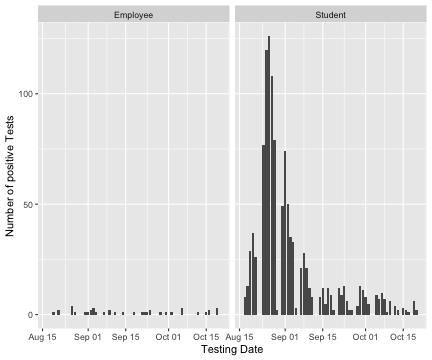
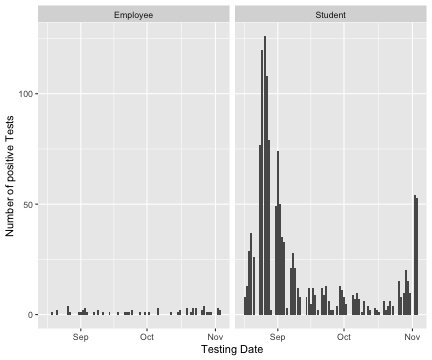
update to reshape example to Nov 5

diff --git a/03_tidyverse/05_tidyr-example.html b/03_tidyverse/05_tidyr-example.html
@@ -43,26 +43,26 @@ tables[[1]] %&gt;% head()
 
 ```
 ##   Testing Date    Employee Positive    Employee Negative     Student Positive
-## 1        10/20                    0                   14                    2
-## 2        10/19                    3                  102                    6
-## 3        10/18 No testing conducted No testing conducted No testing conducted
-## 4        10/17                    0                    5                    1
-## 5        10/16                    2                    6                    2
-## 6        10/15                    1                   10                    3
+## 1        11/03                    2                   21                   53
+## 2        11/02                    3                   97                   54
+## 3        11/01 No testing conducted No testing conducted No testing conducted
+## 4        10/31                    0                    9                   10
+## 5        10/30                    1                   17                   15
+## 6        10/29                    1                   23                   20
 ##       Student Negative Total Tested Positive     Percent Positive
-## 1                   76                     2                   2%
-## 2                  376                     9                   2%
+## 1                  199                    55                  20%
+## 2                  423                    57                  10%
 ## 3 No testing conducted  No testing conducted No testing conducted
-## 4                   13                     1                   5%
-## 5                   31                     4                  10%
-## 6                   59                     4                   5%
+## 4                   34                    10                  19%
+## 5                   76                    16                  15%
+## 6                   97                    21                  15%
 ##   Total Tested Negative     Percent Negative         Total Tested
-## 1                    90                  98%                   92
-## 2                   478                  98%                  487
+## 1                   220                  80%                  275
+## 2                   520                  90%                  577
 ## 3  No testing conducted No testing conducted No testing conducted
-## 4                    18                  95%                   19
-## 5                    37                  90%                   41
-## 6                    69                  95%                   73
+## 4                    43                  81%                   53
+## 5                    93                  85%                  109
+## 6                   120                  85%                  141
 ```
 
 ---
@@ -76,17 +76,17 @@ testing %&gt;% str()
 ```
 
 ```
-## 'data.frame':	65 obs. of  10 variables:
-##  $ Testing Date         : chr  "10/20" "10/19" "10/18" "10/17" ...
-##  $ Employee Positive    : chr  "0" "3" "No testing conducted" "0" ...
-##  $ Employee Negative    : chr  "14" "102" "No testing conducted" "5" ...
-##  $ Student Positive     : chr  "2" "6" "No testing conducted" "1" ...
-##  $ Student Negative     : chr  "76" "376" "No testing conducted" "13" ...
-##  $ Total Tested Positive: chr  "2" "9" "No testing conducted" "1" ...
-##  $ Percent Positive     : chr  "2%" "2%" "No testing conducted" "5%" ...
-##  $ Total Tested Negative: chr  "90" "478" "No testing conducted" "18" ...
-##  $ Percent Negative     : chr  "98%" "98%" "No testing conducted" "95%" ...
-##  $ Total Tested         : chr  "92" "487" "No testing conducted" "19" ...
+## 'data.frame':	79 obs. of  10 variables:
+##  $ Testing Date         : chr  "11/03" "11/02" "11/01" "10/31" ...
+##  $ Employee Positive    : chr  "2" "3" "No testing conducted" "0" ...
+##  $ Employee Negative    : chr  "21" "97" "No testing conducted" "9" ...
+##  $ Student Positive     : chr  "53" "54" "No testing conducted" "10" ...
+##  $ Student Negative     : chr  "199" "423" "No testing conducted" "34" ...
+##  $ Total Tested Positive: chr  "55" "57" "No testing conducted" "10" ...
+##  $ Percent Positive     : chr  "20%" "10%" "No testing conducted" "19%" ...
+##  $ Total Tested Negative: chr  "220" "520" "No testing conducted" "43" ...
+##  $ Percent Negative     : chr  "80%" "90%" "No testing conducted" "81%" ...
+##  $ Total Tested         : chr  "275" "577" "No testing conducted" "53" ...
 ```
 
 ---
@@ -128,17 +128,17 @@ testing %&gt;% str()
 ```
 
 ```
-## 'data.frame':	65 obs. of  10 variables:
-##  $ Testing Date         : chr  "10/20" "10/19" "10/18" "10/17" ...
-##  $ Employee Positive    : num  0 3 NA 0 2 1 0 0 1 NA ...
-##  $ Employee Negative    : num  14 102 NA 5 6 10 9 7 77 NA ...
-##  $ Student Positive     : num  2 6 NA 1 2 3 0 2 4 NA ...
-##  $ Student Negative     : num  76 376 NA 13 31 59 242 73 347 NA ...
-##  $ Total Tested Positive: num  2 9 NA 1 4 4 0 2 5 NA ...
-##  $ Percent Positive     : num  2 2 NA 5 10 5 0 2 1 NA ...
-##  $ Total Tested Negative: num  90 478 NA 18 37 69 251 80 424 NA ...
-##  $ Percent Negative     : num  98 98 NA 95 90 95 100 98 99 NA ...
-##  $ Total Tested         : num  92 487 NA 19 41 73 251 82 429 NA ...
+## 'data.frame':	79 obs. of  10 variables:
+##  $ Testing Date         : chr  "11/03" "11/02" "11/01" "10/31" ...
+##  $ Employee Positive    : num  2 3 NA 0 1 1 1 4 2 NA ...
+##  $ Employee Negative    : num  21 97 NA 9 17 23 26 20 117 NA ...
+##  $ Student Positive     : num  53 54 NA 10 15 20 10 8 15 NA ...
+##  $ Student Negative     : num  199 423 NA 34 76 97 335 97 386 NA ...
+##  $ Total Tested Positive: num  55 57 NA 10 16 21 11 12 17 NA ...
+##  $ Percent Positive     : num  20 10 NA 19 15 15 3 9 3 NA ...
+##  $ Total Tested Negative: num  220 520 NA 43 93 120 361 117 503 NA ...
+##  $ Percent Negative     : num  80 90 NA 81 85 85 97 91 97 NA ...
+##  $ Total Tested         : num  275 577 NA 53 109 141 372 129 520 NA ...
 ```
 
 The first five variables are raw data, the others are derived from the first five
@@ -168,12 +168,12 @@ head(tlong)
 ## # A tibble: 6 x 3
 ##   `Testing Date` `Who Result`      Number
 ##   &lt;chr&gt;          &lt;chr&gt;              &lt;dbl&gt;
-## 1 10/20          Employee Positive      0
-## 2 10/20          Employee Negative     14
-## 3 10/20          Student Positive       2
-## 4 10/20          Student Negative      76
-## 5 10/19          Employee Positive      3
-## 6 10/19          Employee Negative    102
+## 1 11/03          Employee Positive      2
+## 2 11/03          Employee Negative     21
+## 3 11/03          Student Positive      53
+## 4 11/03          Student Negative     199
+## 5 11/02          Employee Positive      3
+## 6 11/02          Employee Negative     97
 ```
 
 ---
@@ -193,12 +193,12 @@ head(tlong)
 ## # A tibble: 6 x 4
 ##   `Testing Date` Who      Result   Number
 ##   &lt;chr&gt;          &lt;chr&gt;    &lt;chr&gt;     &lt;dbl&gt;
-## 1 10/20          Employee Positive      0
-## 2 10/20          Employee Negative     14
-## 3 10/20          Student  Positive      2
-## 4 10/20          Student  Negative     76
-## 5 10/19          Employee Positive      3
-## 6 10/19          Employee Negative    102
+## 1 11/03          Employee Positive      2
+## 2 11/03          Employee Negative     21
+## 3 11/03          Student  Positive     53
+## 4 11/03          Student  Negative    199
+## 5 11/02          Employee Positive      3
+## 6 11/02          Employee Negative     97
 ```
 
 ---
@@ -219,12 +219,12 @@ head(tlong)
 ## # A tibble: 6 x 4
 ##   `Testing Date` Who      Result   Number
 ##   &lt;date&gt;         &lt;chr&gt;    &lt;chr&gt;     &lt;dbl&gt;
-## 1 2020-10-20     Employee Positive      0
-## 2 2020-10-20     Employee Negative     14
-## 3 2020-10-20     Student  Positive      2
-## 4 2020-10-20     Student  Negative     76
-## 5 2020-10-19     Employee Positive      3
-## 6 2020-10-19     Employee Negative    102
+## 1 2020-11-03     Employee Positive      2
+## 2 2020-11-03     Employee Negative     21
+## 3 2020-11-03     Student  Positive     53
+## 4 2020-11-03     Student  Negative    199
+## 5 2020-11-02     Employee Positive      3
+## 6 2020-11-02     Employee Negative     97
 ```
 ---
 
